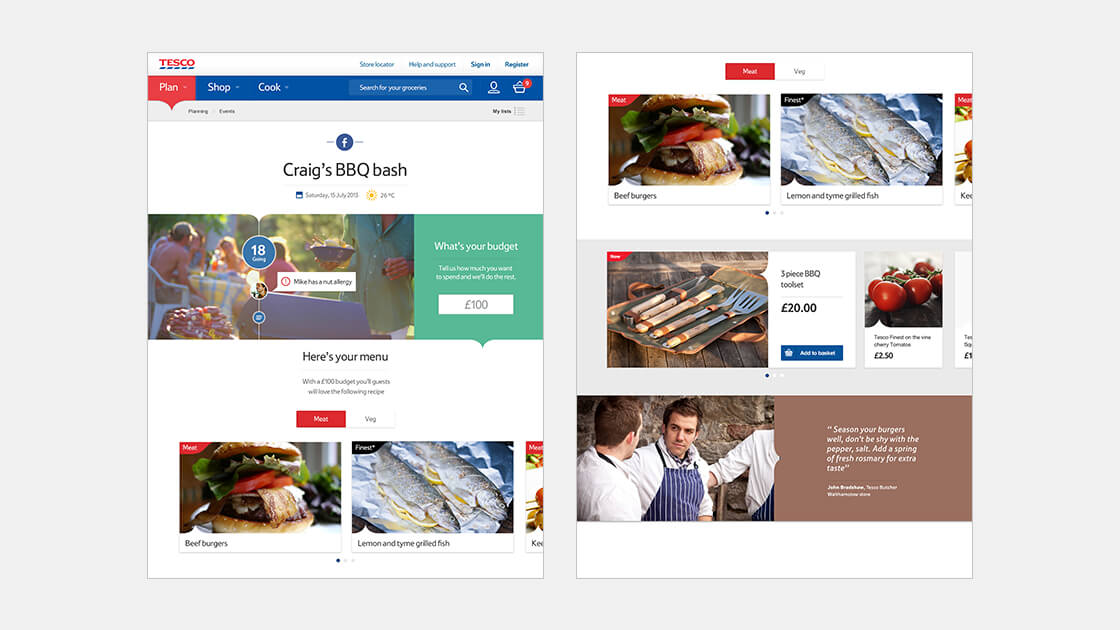
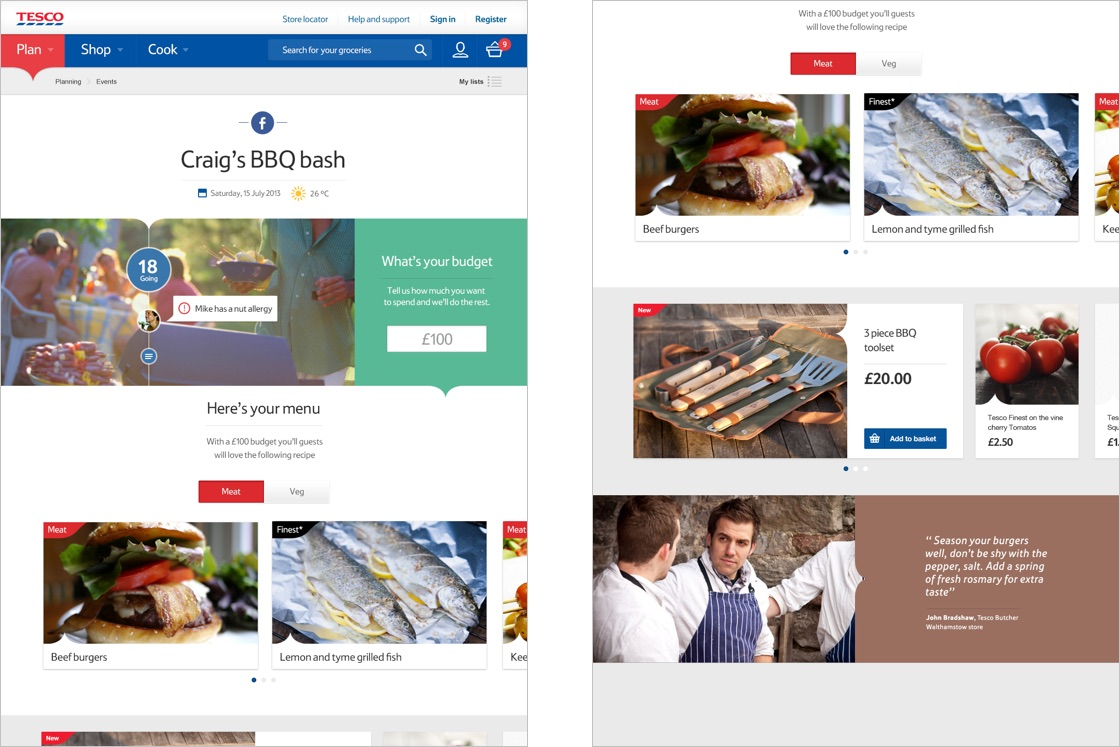
Update content
- Remove image keylines
- Update images
- Comment out GitHub link
- Added new content image to Tesco

diff --git a/css/style.css b/css/style.css
@@ -76,7 +76,7 @@
 	#project .control a.next { padding-right: 16px; float: right; background: url(../images/next-icon.svg) right no-repeat; background-size: 10px 16px; }
 	#project .control a.view { margin-left: -28px; position: absolute; left: 50%; top: 28px; font-size: 0px; display: block; width: 56px; height: 56px; background: url(../images/project-icon1.svg) center no-repeat; background-size: 56px; }
 	#project .control a.view:hover { background-image: url(../images/project-icon1hvr.svg); }
-	#project .project figure { padding-bottom: 52px; }
+	#project .project figure { padding-bottom: 104px; }
 	#project .project figcaption { font-size: 14px; max-width: 352px; line-height: 18px; }
 	#project .project figure:last-child { padding-bottom: 0px; }
 	#project .link a { padding: 78px 26px; width: 100%; line-height: 52px; float: left; display: block; text-align: center; color: #fff; font-family: 'Source Serif Pro'; font-size: 18px; font-style: normal; font-weight: 600; background: #131313; }

diff --git a/css/reset.css b/css/reset.css
@@ -25,7 +25,7 @@ em { font-style: italic; }
 strong { font-weight: 700; }
 small { font-family: "Source Serif Pro", Georgia, serif; font-size: 14px; font-style: normal; font-weight: 600; line-height: 21px;}
 figcaption { color: #666; font-family: "Source Sans Pro", Georgia, serif; font-size: 14px; font-style: normal; font-weight: 300; line-height: 18px; letter-spacing: 0.5px; margin-top: 13px;}
-img { border:1px solid #f0f0f0; max-width: 100%; display: block;}
+img { border:0px solid #f0f0f0; max-width: 100%; display: block;}
 img.lazy { display: none; }
 
 /*	Blockquotes  */

diff --git a/about.html b/about.html
@@ -88,6 +88,7 @@
                     <li><a href="tel:+447582304804">+44 (0) 7582304804</a></li>
                     <li><a href="mailto:craighjones@gmail.com">craighjones@gmail.com</a></li>
                     <li><a href="https://uk.linkedin.com/in/craighjones">Linkedin</a></li>
+										<!-- <li><a href="https://github.com/craighjones/Portfolio">GitHub</a></li> -->
                     </ul>
                 </div>
             </div>

diff --git a/tesco.html b/tesco.html
@@ -86,6 +86,11 @@
 														<figcaption> </figcaption>
 												</figure>
 
+												<figure>
+														<img src="images/projects/tesco/timeline.jpg" alt="timeline">
+														<figcaption> </figcaption>
+												</figure>
+
                         <div class="clear"></div>
     				</div>
                 </div>
